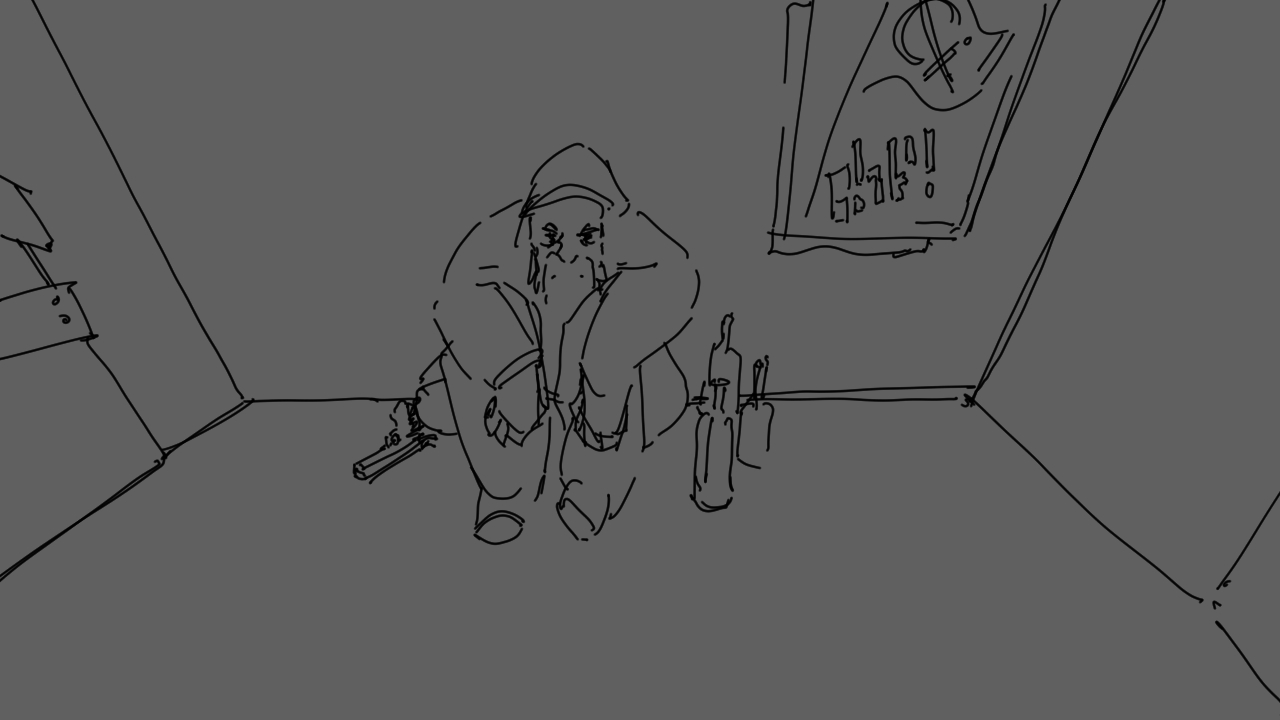
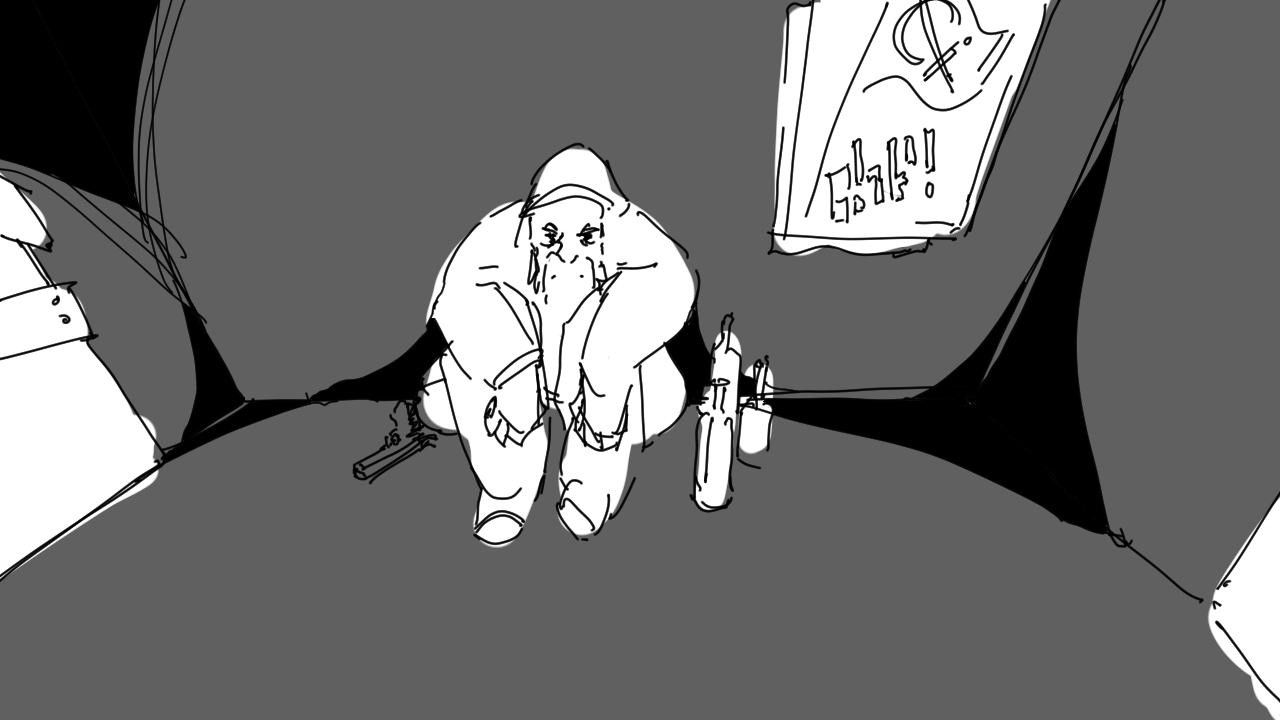
updated art + ending + music

Changed region(s): [[0.0, 0.0, 0.9062, 0.7944], [0.5938, 0.0, 0.8438, 0.3667], [0.9375, 0.7028, 1.0, 1.0]]

diff --git a/rm1/rm1-1-end.html b/rm1/rm1-1-end.html
@@ -1,11 +1,35 @@
 <!DOCTYPE html>
-<html lang="en">
+<html class="container" lang="en">
 <head>
     <meta charset="UTF-8">
-    <title>Title</title>
+    <title>End</title>
+    <link href="../css/gamestyle.css" rel="stylesheet">
+    <link href="https://fonts.gstatic.com" rel="preconnect">
+    <link href="https://fonts.googleapis.com/css2?family=Bebas+Neue&display=swap" rel="stylesheet">
 </head>
 <body>
-<h1>Ending</h1>
 
+
+<audio autoplay="true" src="../sounds/Прощанье Славянки (минус).mp3" loop="true" autobuffer></audio>
+<audio autoplay="true" src="../sounds/bombsound.mp3" autobuffer></audio>
+<div class="text">
+    <!-- don't touch the formatting below; it's necessary for the JS to work -->
+    <pre id="typewriter">
+End.
+Art and Narrative by George Zhang.
+
+</pre>
+</div>
+
+<!-- SCRIPTS INCLUSIONS -->
+<!-- jQuery -->
+<script src="https://ajax.googleapis.com/ajax/libs/jquery/3.5.1/jquery.min.js"></script>
+<script>if (typeof (jQuery) === 'undefined') {document.write('<script src="../local/jquery.min.js"></\script>')}</script>
+
+<!-- instant.page -->
+<script src="../local/instantpage-5.1.0.js" type="module" defer></script>
+
+<!-- Other Scripts -->
+<script src="../js/main.js"></script>
 </body>
 </html>

diff --git a/rm3/rm3-2.html b/rm3/rm3-2.html
@@ -9,7 +9,15 @@
 
 </head>
 <body>
-
+<div class="text">
+    <!-- don't touch the formatting below; it's necessary for the JS to work -->
+    <pre id="typewriter">
+-You should get in the bunker now.
+You're not coming along?
+-No, I'll see you.
+Alright...
+</pre>
+</div>
     <a class="btn2 navleft" href="rm3-1.html"> < </a>
     <a class="btn2 navright" href="rm3-3.html"> > </a>
 

diff --git a/rm2/rm2-2.html b/rm2/rm2-2.html
@@ -59,6 +59,13 @@
 
 
 </script>
+<div class="text">
+    <!-- don't touch the formatting below; it's necessary for the JS to work -->
+    <pre id="typewriter">
+No food, not like there ever was.
+Maybe one day.
+</pre>
+</div>
     <a class="btn2 navleft" href="rm2-3.html"> < </a>
     <a class="btn2 navright" href="rm2-1.html"> > </a>
 

diff --git a/rm2/rm2-3.html b/rm2/rm2-3.html
@@ -59,6 +59,12 @@
 
 
 </script>
+<div class="text">
+    <!-- don't touch the formatting below; it's necessary for the JS to work -->
+    <pre id="typewriter">
+Is this all they every play on the radio?
+</pre>
+</div>
     <a class="btn2 navleft" href="rm2-1.html"> < </a>
     <a class="btn2 navright" href="rm2-2.html"> > </a>
 

diff --git a/rm1/rm1-3.html b/rm1/rm1-3.html
@@ -17,10 +17,6 @@
 
     <div class="rmbg-wrapper">
         <img class="rmbg" src="../images/rm1/rm1-3.jpg" alt="room 1-3 image">
-        <a class="selection"
-           href="../rm2/rm2-1.html"
-           style="top:24%;left:58%;height:50%;width:35%;"
-        ></a>
     </div>
 
     <!-- SCRIPTS INCLUSIONS -->

diff --git a/rm1/rm1-2.html b/rm1/rm1-2.html
@@ -28,10 +28,6 @@
            href="../rm2/rm2-1.html"
            style="top:17%;left:29%;height:65%;width:15%;"
         ></a>
-        <a class="selection"
-           href="../rm2/rm2-1.html"
-           style="top:17%;left:49%;height:30%;width:17%;"
-        ></a>
     </div>
 
     <!-- SCRIPTS INCLUSIONS -->

diff --git a/rm2/rm2-1.html b/rm2/rm2-1.html
@@ -59,6 +59,12 @@
 
 
     </script>
+    <div class="text">
+        <!-- don't touch the formatting below; it's necessary for the JS to work -->
+        <pre id="typewriter">
+
+</pre>
+    </div>
     <a class="btn2 navleft" href="rm2-2.html"> < </a>
     <a class="btn2 navright" href="rm2-3.html"> > </a>
 

diff --git a/rm1/rm1-1.html b/rm1/rm1-1.html
@@ -17,6 +17,7 @@
         <!-- don't touch the formatting below; it's necessary for the JS to work -->
 <pre id="typewriter">
 I need to head into the bunker...
+but maybe I'll look around again.
 </pre>
     </div>
     <audio preload="auto" src="../sounds/creak.mp3" loop="true" autobuffer></audio>

diff --git a/css/gamestyle.css b/css/gamestyle.css
@@ -199,7 +199,7 @@ body {
     top:0px;
     left:0px;
     background-color: #000;
-    opacity: 10%;
+    opacity: 0%;
 }
 
 .navleft, .navright , .navcenter {
